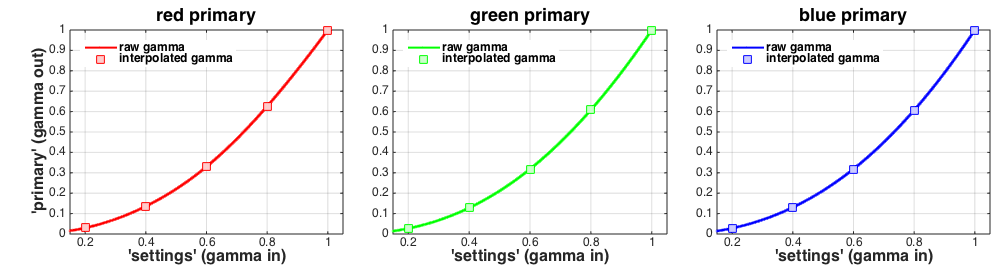
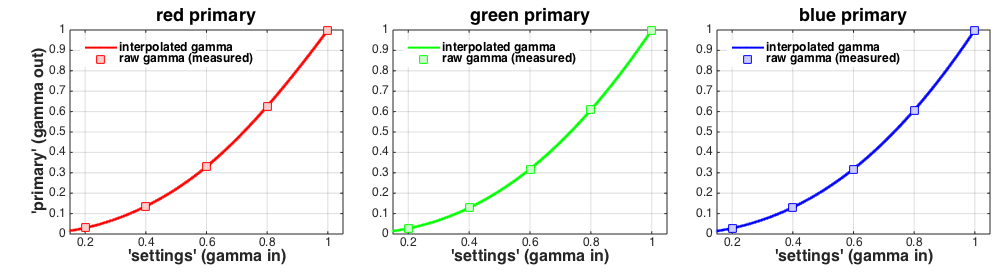
Fixed gamma graph legends

Changed region(s): [[0.744, 0.1455, 0.899, 0.2327], [0.434, 0.1455, 0.589, 0.2327], [0.124, 0.1455, 0.279, 0.2327]]

diff --git a/Tutorials/Calibration/Linearization/LinearizationTutorial.html b/Tutorials/Calibration/Linearization/LinearizationTutorial.html
@@ -6,7 +6,7 @@
    <!--
 This HTML was auto-generated from MATLAB code.
 To make changes, update the MATLAB code and republish this document.
-      --><title>LinearizationTutorial</title><meta name="generator" content="MATLAB 8.4"><link rel="schema.DC" href="http://purl.org/dc/elements/1.1/"><meta name="DC.date" content="2014-11-17"><meta name="DC.source" content="LinearizationTutorial.m"><style type="text/css">
+      --><title>LinearizationTutorial</title><meta name="generator" content="MATLAB 8.4"><link rel="schema.DC" href="http://purl.org/dc/elements/1.1/"><meta name="DC.date" content="2014-11-18"><meta name="DC.source" content="LinearizationTutorial.m"><style type="text/css">
 html,body,div,span,applet,object,iframe,h1,h2,h3,h4,h5,h6,p,blockquote,pre,a,abbr,acronym,address,big,cite,code,del,dfn,em,font,img,ins,kbd,q,s,samp,small,strike,strong,sub,sup,tt,var,b,u,i,center,dl,dt,dd,ol,ul,li,fieldset,form,label,legend,table,caption,tbody,tfoot,thead,tr,th,td{margin:0;padding:0;border:0;outline:0;font-size:100%;vertical-align:baseline;background:transparent}body{line-height:1}ol,ul{list-style:none}blockquote,q{quotes:none}blockquote:before,blockquote:after,q:before,q:after{content:'';content:none}:focus{outine:0}ins{text-decoration:none}del{text-decoration:line-through}table{border-collapse:collapse;border-spacing:0}
 
 html { min-height:100%; margin-bottom:1px; }
@@ -228,7 +228,7 @@ table td { padding:7px 5px; text-align:left; vertical-align:top; border:1px soli
     titles = {<span class="string">'red primary'</span>, <span class="string">'green primary'</span>, <span class="string">'blue primary'</span>};
 
     <span class="comment">% Specify no legends</span>
-    legends = {<span class="string">'raw gamma'</span>, <span class="string">'interpolated gamma'</span>};
+    legends = {<span class="string">'interpolated gamma'</span>, <span class="string">'raw gamma (measured)'</span>};
 
     hFig = figure(figNum);
     set(hFig, <span class="string">'Position'</span>, [100 100 1000 275]);
@@ -625,7 +625,7 @@ function PlotGammaTables(rawGammaInput, rawGammaTable, gammaInput, gammaTable)
     titles = {'red primary', 'green primary', 'blue primary'};
     
     % Specify no legends
-    legends = {'raw gamma', 'interpolated gamma'};
+    legends = {'interpolated gamma', 'raw gamma (measured)'};
     
     hFig = figure(figNum);
     set(hFig, 'Position', [100 100 1000 275]);
